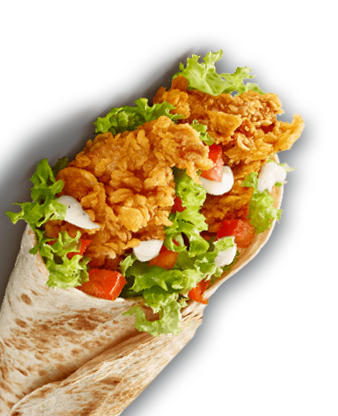
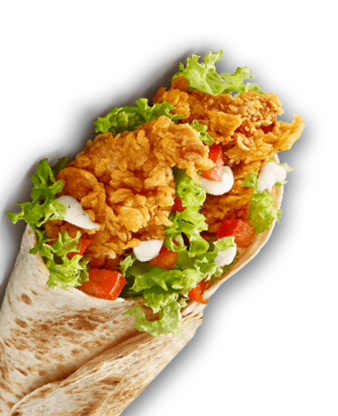
form

Changed region(s): [[0.0, 0.25, 0.2663, 0.6875]]

diff --git a/src/components/productList/shwarma/shawarma.tsx b/src/components/productList/shwarma/shawarma.tsx
@@ -6,6 +6,7 @@ import mashroom from '../../../fonts/mashroom.png'
 import livanskaya from '../../../fonts/livanskaya.png'
 import mexican from '../../../fonts/mexican.png'
 import arab from '../../../fonts/arab.png'
+import arabX from '../../../fonts/arabX.png'
 import turkey from '../../../fonts/turkey.png'
 import chiky from '../../../fonts/chiku.png'
 import italy from '../../../fonts/italy.png'
@@ -151,7 +152,7 @@ const Shawarma = () => {
         },
         {
             name: 'Арабская Х',
-            pic: arab,
+            pic: arabX,
             ingridients: 'Лаваш, говядина, помидоры, соленый огурец, соус, картошка',
             options: [
                 {
